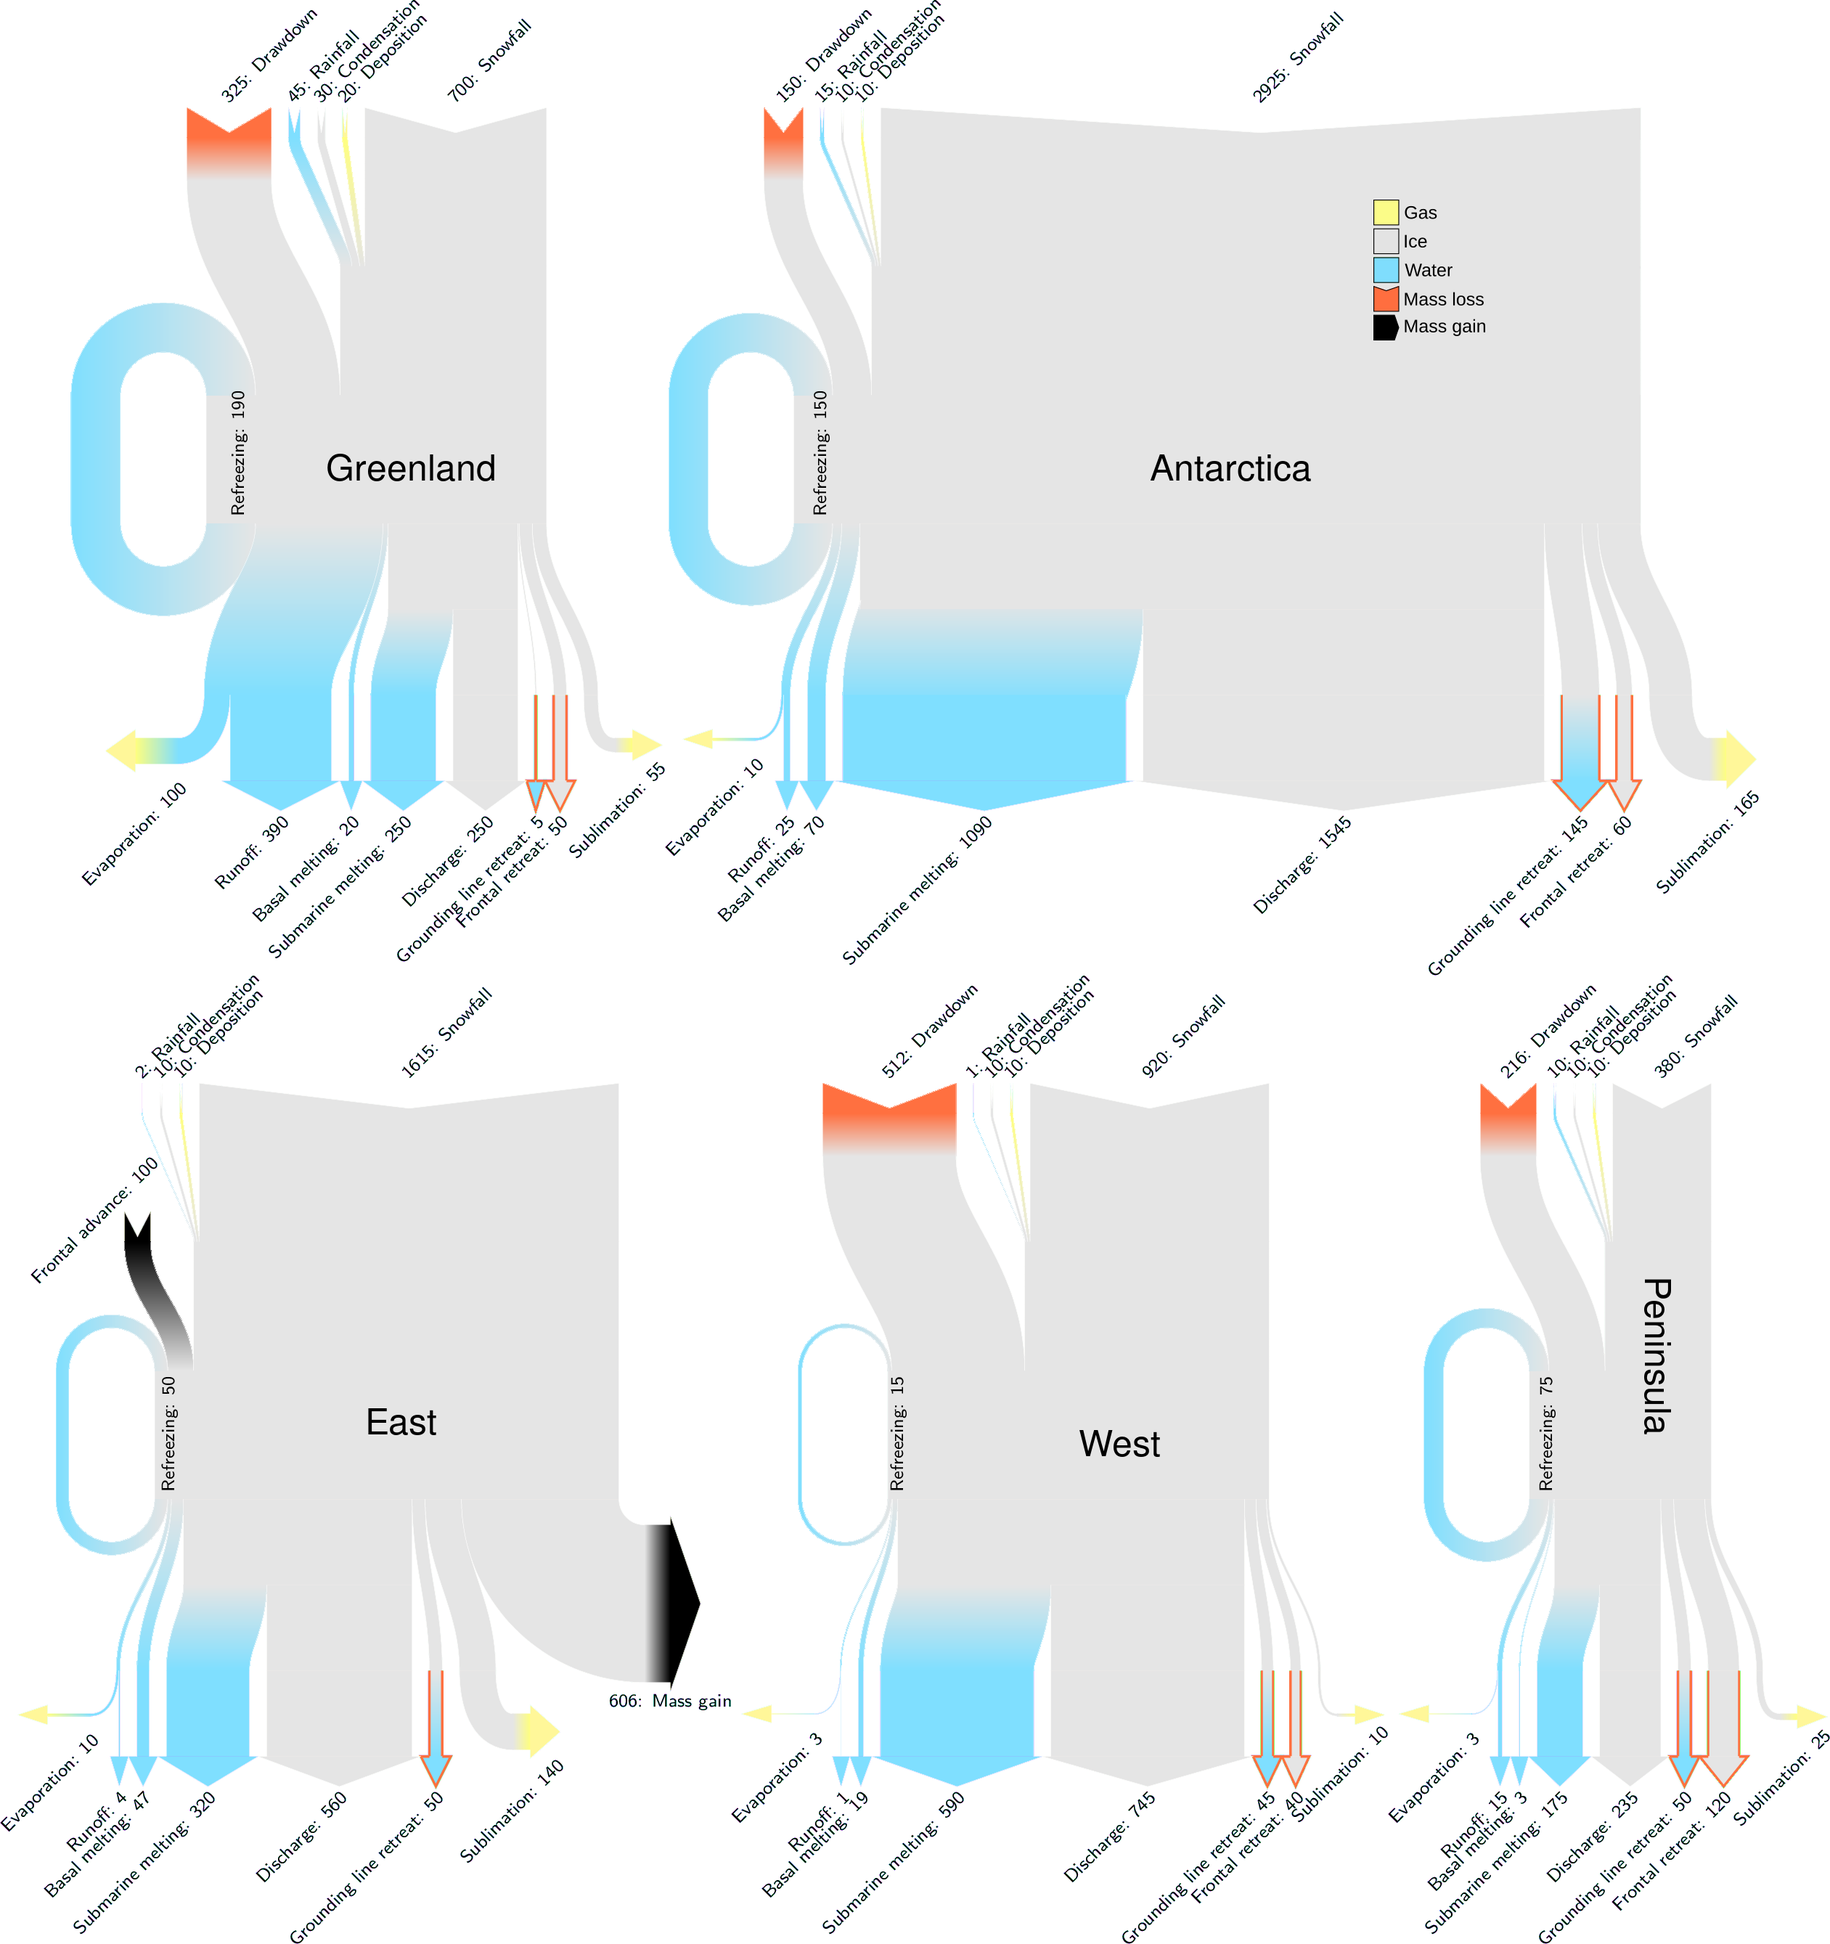
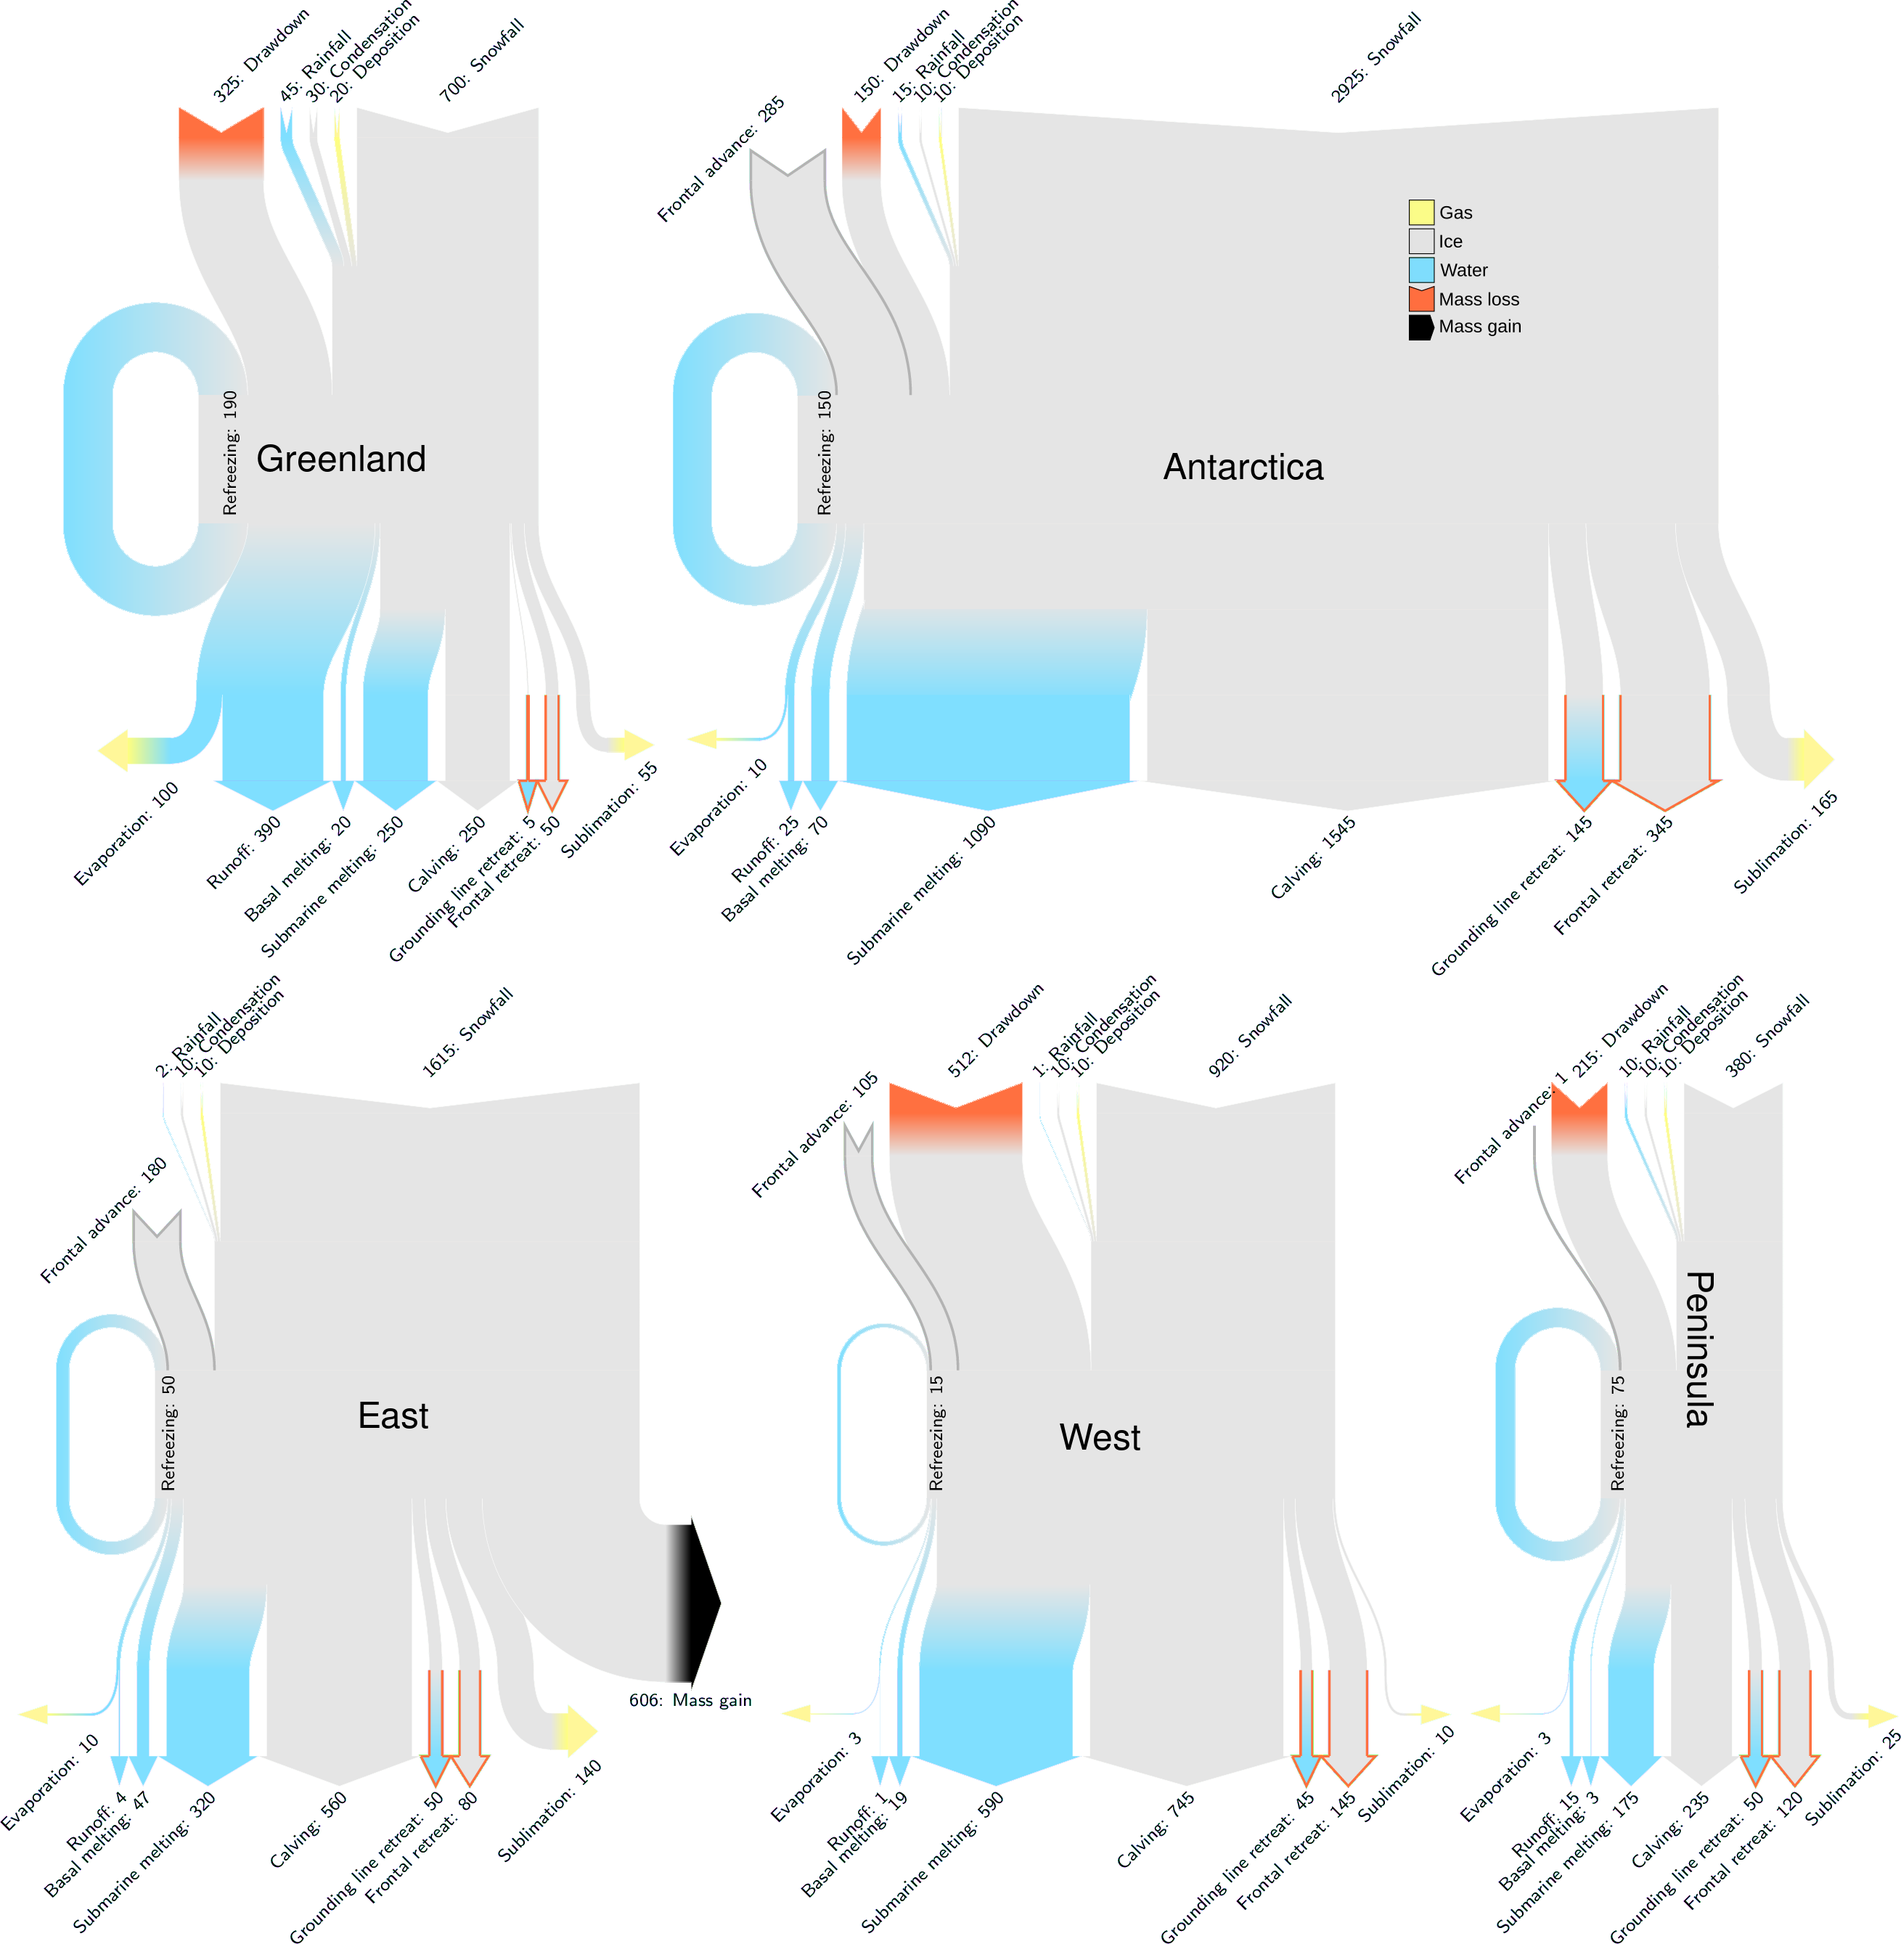
Show both frontal advance and retreat in same graphic

diff --git a/sankey.tex b/sankey.tex
@@ -19,6 +19,7 @@
     \colorlet{air}{yellow!50}
     \colorlet{red}[rgb]{red!50!orange!75!white}
     \colorlet{black}[rgb]{black!100!black!100!black!100}
+    \colorlet{gray}[rgb]{black!30!black!30!black!30}
 
     \sankeyset{
       %% comment for gray outline
@@ -47,6 +48,7 @@
       water-to-ice/.style={fill/.style={fill=none, top color=water, bottom color=ice},},
       ice-to-black/.style={fill/.style={fill=none, left color=ice, right color=black},},
       black-to-ice/.style={fill/.style={fill=none, bottom color=ice, top color=black},},
+      in-black/.style={draw/.style={draw=gray,thick=3},},
       out-red/.style={draw/.style={draw=red,thick=3},},
       debug label/.style={
         overlay,
@@ -129,35 +131,14 @@
     \sankeydubins[minimum radius=3mm,water-to-ice]{RF}{RFi}
 
     \ifthenelse{\Q{vMG} > \Q{vML}} {
-      \ifthenelse{\Q{vFRLOSS} > 0}{
-        \sankeynode{name=f1, quantity=\Q{vRFZ}+\qq{f0},
-          at={[yshift=-15mm]f0.left}, anchor=left,
-          forked={\qq{f0}/f0i, \Q{vRFZ}/RFZi}}
-      }{
         \sankeynode{name=f1, quantity=\Q{vRFZ}+\qq{f0}+\Q{vFRGAIN},
           at={[yshift=-15mm]f0.left}, anchor=left,
           forked={\qq{f0}/f0i, \Q{vFRGAIN}/FG, \Q{vRFZ}/RFZi}}
-      }
     } {
-      \ifthenelse{\Q{vFRLOSS} > 0}{
-        \sankeynode{name=f1, quantity=\Q{vRFZ}+\qq{f0}+\Q{vML},
-          at={[yshift=-15mm]f0.left}, anchor=left,
-          forked={\qq{f0}/f0i, \Q{vML}/MLi, \Q{vRFZ}/RFZi}}
-      }{
         \sankeynode{name=f1, quantity=\Q{vRFZ}+\qq{f0}+\Q{vML}+\Q{vFRGAIN},
           at={[yshift=-15mm]f0.left}, anchor=left,
           forked={\qq{f0}/f0i, \Q{vML}/MLi, \Q{vFRGAIN}/FG, \Q{vRFZ}/RFZi}}
-      }
     }
-    
-    \ifthenelse{\Q{vFRGAIN} > 0}{
-      \sankeynode{name=FGi, quantity=\Q{vFRGAIN},
-        at={[yshift=15mm,xshift=-\xoff]FG.right}, anchor=left}
-      \sankeystart[black]{FGi}
-      \sankeyoutin[black-to-ice]{FGi}{FG}
-      \node[font=\tiny, rotate=45, anchor=north east]
-      at ([yshift=12mm,xshift=3mm]FGi.right) {Frontal advance: \qq{FGi}}; 
-   }{}
     
     \sankeyoutin{f0}{f0i}
     \sankeyadvance{f1}{15mm}
@@ -202,25 +183,17 @@
       at={[xshift=\xoff]D.left}, anchor=right}
     \sankeyoutin{GZ}{GZa}
 
-    % FLa must exist for placement, but only draw lines if > 0
-    \ifthenelse{\Q{vFRLOSS} > 0} {
-        \sankeynode{name=FLa, quantity=\qq{FL},
-          at={[xshift=\xoff]GZa.left}, anchor=right}
-        \sankeyoutin{FL}{FLa}
-      }{
-        \sankeynode{name=FLa, quantity=\qq{FL},
-          at={[yshift=0mm]GZa.left}, anchor=right}
-      }
+    \sankeynode{name=FLa, quantity=\qq{FL},
+      at={[xshift=\xoff]GZa.left}, anchor=right}
+    \sankeyoutin{FL}{FLa}
 
     \sankeynode{name=SUa, quantity=\qq{SU},
       at={[xshift=\xoff]FLa.left}, anchor=right}
     \sankeyoutin{SU}{SUa}
 
-    \ifthenelse{\Q{vFRLOSS} > 0} {
-      \sankeyadvance[out-red]{FLa}{10mm}
-      \sankeyend[out-red]{FLa}
-      \belowlabel{FLa}{Frontal retreat}
-    }{}
+    \sankeyadvance[out-red]{FLa}{10mm}
+    \sankeyend[out-red]{FLa}
+    \belowlabel{FLa}{Frontal retreat}
     
     \ifnum \numexpr\Q{vMG} > \Q{vML}
       \sankeynode{name=MGa, quantity=\qq{MG},
@@ -239,52 +212,67 @@
     \sankeyadvance[water-to-air-horiz]{EVa}{5mm}
     \sankeyend[air]{EVa}
 
-    \ifthenelse{\Q{vMG} < \Q{vML}}
-      {
-        %% mass loss
-        \sankeynode{name=ML, quantity=\Q{vML},
-          at={[xshift=-\xoff]RF.right}, anchor=left} %, angle=-45}
-        \abovelabel{ML}{Drawdown}
-        \sankeystart[red]{ML}
-        \sankeyadvance[red-to-ice]{ML}{5mm}
-        \sankeyoutin{ML}{MLi}
-      }
-      {
-        %% mass gain
-        \sankeyadvance[ice-to-black]{MGa}{3mm}
-        \sankeyend[black]{MGa}
-      }
+    \ifthenelse{\Q{vMG} < \Q{vML}} {
+      %% mass loss
+      \sankeynode{name=ML, quantity=\Q{vML},
+        at={[xshift=-\xoff]RF.right}, anchor=left} %, angle=-45}
+      \abovelabel{ML}{Drawdown}
 
-      \sankeynode{name=SUaa, quantity=\qq{SU},
-        at={[xshift=2mm,yshift=-5mm]SUa.left}, anchor=left, angle=0}
-      \sankeyoutin[ice]{SUa}{SUaa}
-      \sankeyadvance[ice-to-air-horiz]{SUaa}{2mm}
-      \sankeyend[air]{SUaa}
+      % frontal advance next to drawdown (mass loss)
+      \sankeynode{name=FGi, quantity=\Q{vFRGAIN},
+        at={[yshift=-5mm,xshift=-\xoff]ML.right}, anchor=left}
       
-      \sankeyadvance[ice-to-water,out-red]{GZa}{10mm}
-      \sankeyend[water,out-red]{GZa}
-      \sankeyadvance{D}{10mm}
-      \sankeyend{D}
+      \sankeystart[red]{ML}
+      \sankeyadvance[red-to-ice]{ML}{5mm}
+      \sankeyoutin{ML}{MLi}
+    }{
+      %% mass gain
+      \sankeyadvance[ice-to-black]{MGa}{3mm}
+      \sankeyend[black]{MGa}
 
-      \sankeyset{water}
-      \sankeyadvance{BMa}{10mm}; \sankeyend{BMa}
-      \sankeyadvance{SUBa}{10mm}; \sankeyend{SUBa}
-      \sankeyadvance{RU}{10mm}; \sankeyend{RU}
-          
-      \belowlabel{RU}{Runoff}
-      \belowlabel{BMa}{Basal melting}
-      \belowlabel{SUBa}{Submarine melting}
-      \belowlabel{D}{Calving}
-      \belowlabel{GZa}{Grounding line retreat}
-      
-      \node[font=\tiny, rotate=45, anchor=north east]
-      at ([yshift=1mm,xshift=3mm]SUaa.south) {Sublimation: \qq{SUaa}};
-      
-      \node[font=\tiny, rotate=45, anchor=north east]
-      at ([yshift=0mm,xshift=5mm]EVa.north) {Evaporation: \qq{EVa}};
-      
-      \node[font=\tiny, anchor=west, rotate=90]
-      at ([yshift=-0.5mm,xshift=1mm]RFZo.center) {Refreezing: \qq{RFZi}};
+      % frontal with no drawdown
+      \sankeynode{name=FGi, quantity=\Q{vFRGAIN},
+        at={[yshift=15mm,xshift=3mm]RFZi.right}, anchor=left}
+    }
+    
+    \ifnum \numexpr\qq{FGi} > 0
+    \sankeystart[in-black]{FGi}
+    \sankeyoutin[in-black]{FGi}{FG}
+    \node[font=\tiny, rotate=45, anchor=north east]
+    at ([yshift=12mm,xshift=3mm]FGi.right) {Frontal advance: \qq{FGi}};
+    \fi
+    
+    
+    \sankeynode{name=SUaa, quantity=\qq{SU},
+      at={[xshift=2mm,yshift=-5mm]SUa.left}, anchor=left, angle=0}
+    \sankeyoutin[ice]{SUa}{SUaa}
+    \sankeyadvance[ice-to-air-horiz]{SUaa}{2mm}
+    \sankeyend[air]{SUaa}
+    
+    \sankeyadvance[ice-to-water,out-red]{GZa}{10mm}
+    \sankeyend[water,out-red]{GZa}
+    \sankeyadvance{D}{10mm}
+    \sankeyend{D}
+
+    \sankeyset{water}
+    \sankeyadvance{BMa}{10mm}; \sankeyend{BMa}
+    \sankeyadvance{SUBa}{10mm}; \sankeyend{SUBa}
+    \sankeyadvance{RU}{10mm}; \sankeyend{RU}
+    
+    \belowlabel{RU}{Runoff}
+    \belowlabel{BMa}{Basal melting}
+    \belowlabel{SUBa}{Submarine melting}
+    \belowlabel{D}{Calving}
+    \belowlabel{GZa}{Grounding line retreat}
+    
+    \node[font=\tiny, rotate=45, anchor=north east]
+    at ([yshift=1mm,xshift=3mm]SUaa.south) {Sublimation: \qq{SUaa}};
+    
+    \node[font=\tiny, rotate=45, anchor=north east]
+    at ([yshift=0mm,xshift=5mm]EVa.north) {Evaporation: \qq{EVa}};
+    
+    \node[font=\tiny, anchor=west, rotate=90]
+    at ([yshift=-0.5mm,xshift=1mm]RFZo.center) {Refreezing: \qq{RFZi}};
 
   \end{sankeydiagram}
 \end{tikzpicture}
